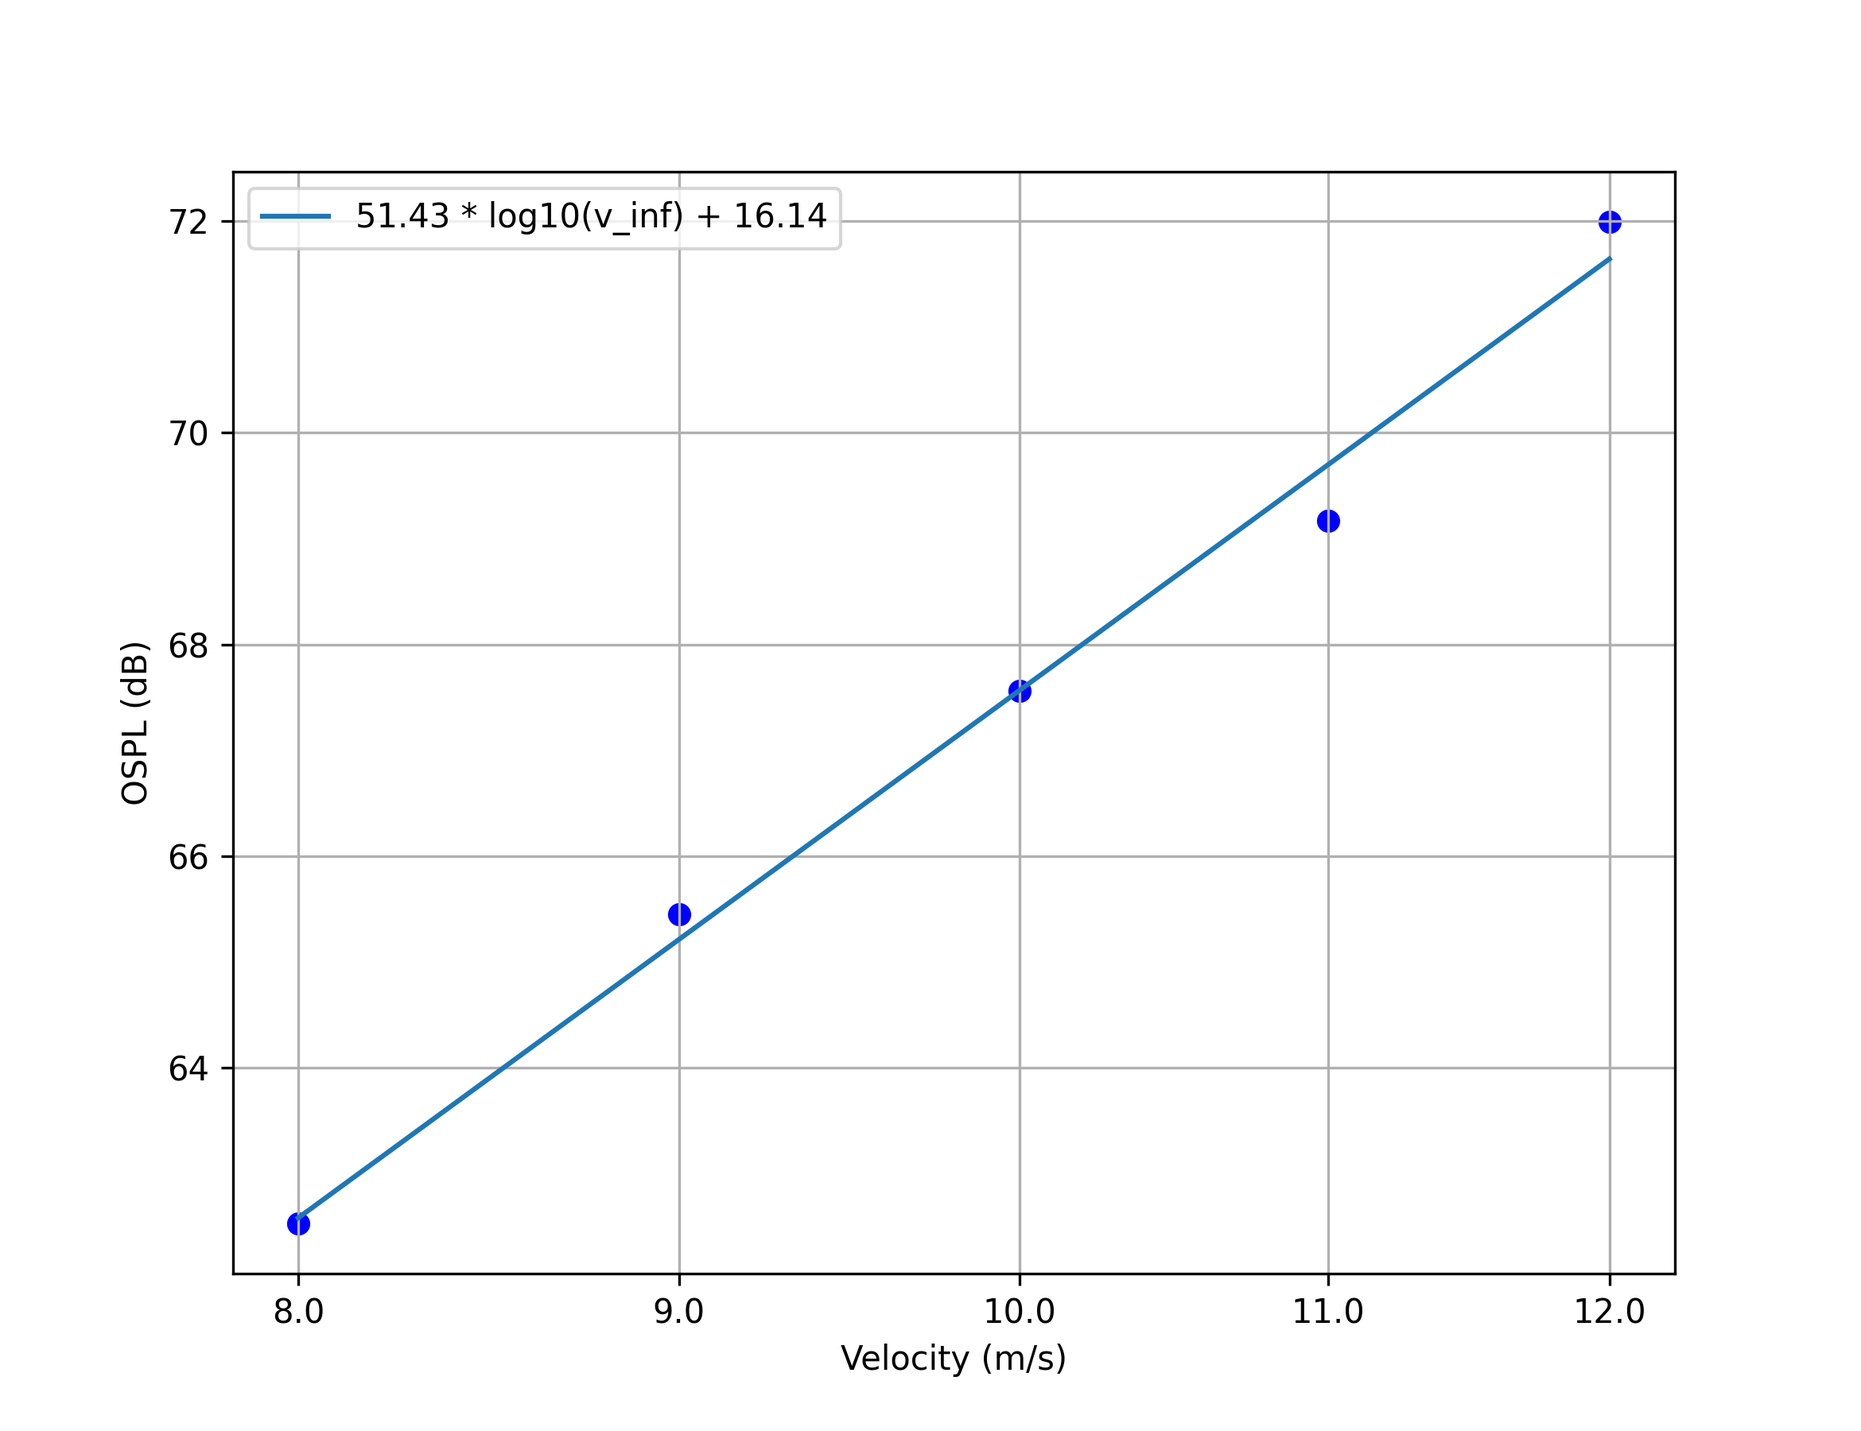
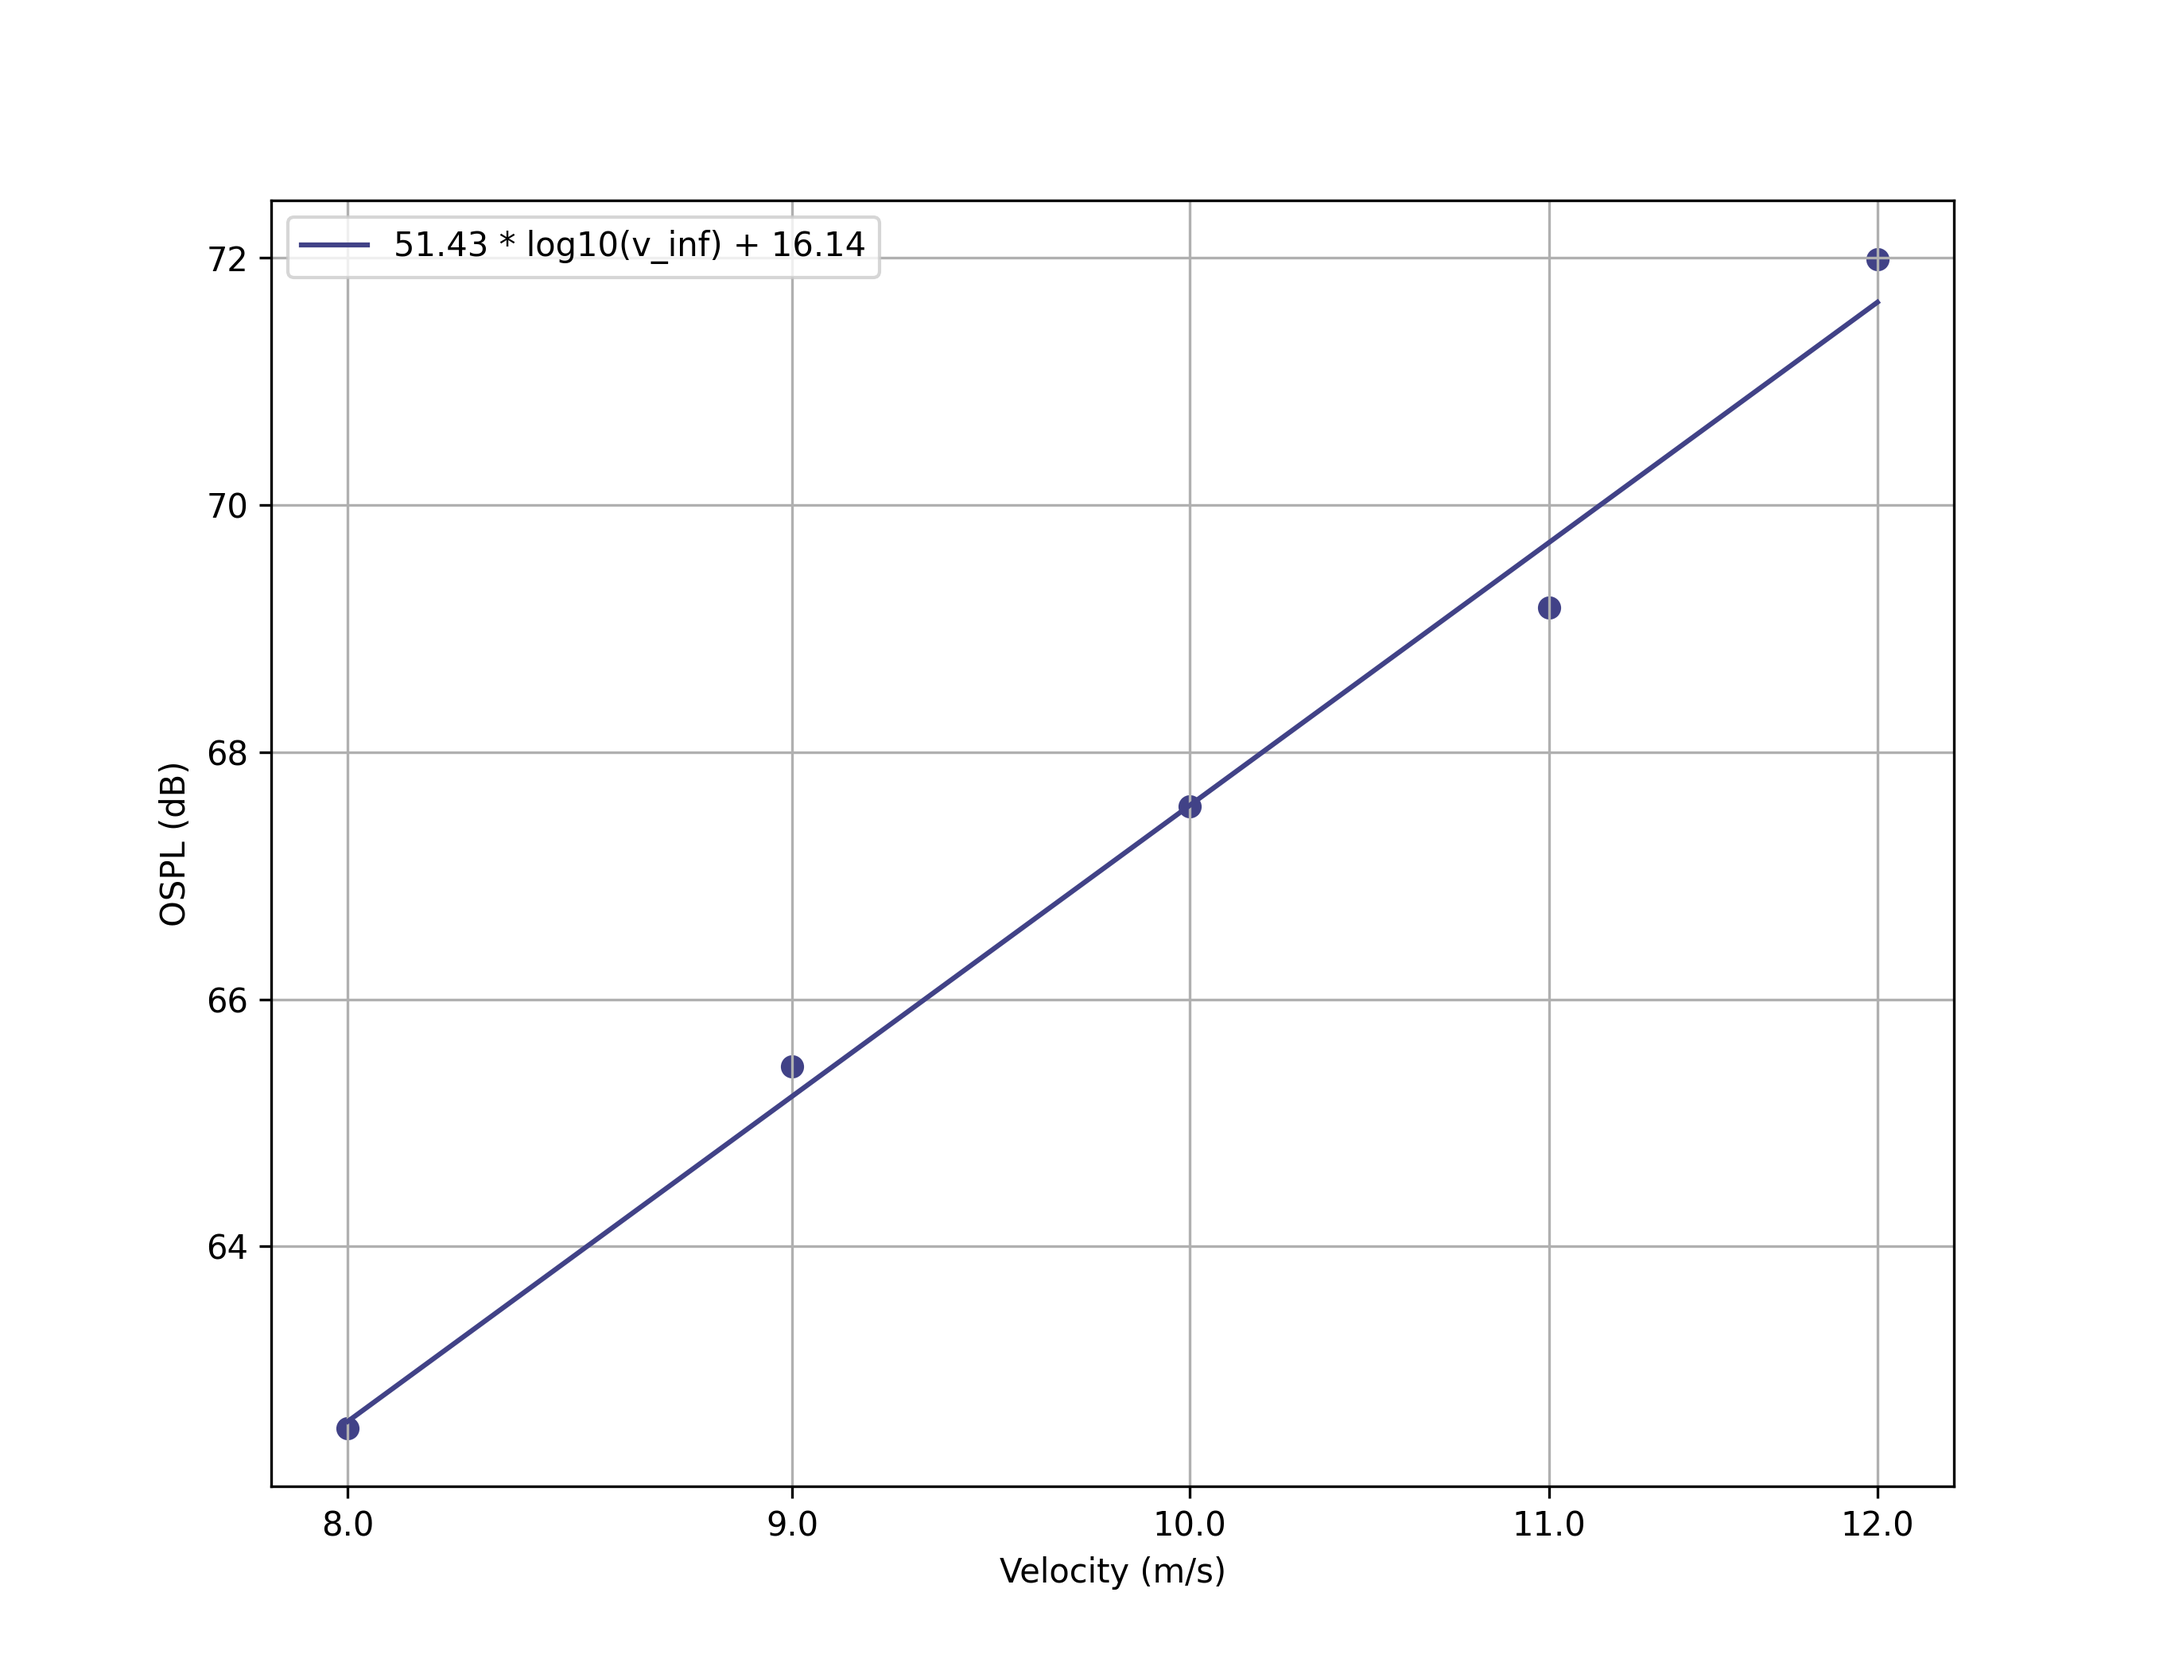
Adjusted data plots

diff --git a/plot_data.py b/plot_data.py
@@ -6,11 +6,11 @@ import pickle as pkl
 
 f_lower = 300  # Hz
 f_upper = 5000 # Hz
-scaling_factor = 1.2
+scaling_factor = 1.4
 size_x = 6.5 * scaling_factor
 size_y = 5 * scaling_factor
 x_ticks = [500, 1000, 1500, 2000, 3000, 4000, 5000]
-color_scheme = 'viridis'
+color_scheme = 'rocket'
 n_smooth = 10
 
 # Load data from pickle file
@@ -26,6 +26,10 @@ with open('saves/processed_data.pkl', 'rb') as f:
     wt_ospl_list = data['wt_ospl_list'] # List of SPL values
     v_inf_list = data['v_inf_list'] # List of velocities
 
+# Convert spl dataframes to spl series
+bg_spl_list = [bg_spl.iloc[:,0] for bg_spl in bg_spl_list]
+wt_spl_list = [wt_spl.iloc[:,0] for wt_spl in wt_spl_list]
+
 # Import data from BPM model (data/BPM/data.csv)
 bpm_list = []
 for v_inf in v_inf_list:
@@ -39,8 +43,8 @@ for v_inf in v_inf_list:
 
 # Prepare colors for plots
 colors = []
-for i in range(len(v_inf_list) + 10):
-    colors.append(plt.cm.get_cmap(color_scheme, len(v_inf_list))(i))
+for i in range(len(v_inf_list) + 1):
+    colors.append(plt.cm.get_cmap(color_scheme, len(v_inf_list) + 1)(i))
 
 # Plot PSD for wt
 fig, ax = plt.subplots(figsize=(size_x, size_y))
@@ -53,6 +57,7 @@ ax.set_ylabel('PSD (dB/Hz)')
 ax.legend()
 ax.grid(True, which='both')
 ax.set_xlim(f_lower, f_upper)
+ax.set_ylim(20, 50)
 plt.xticks(x_ticks, x_ticks)
 plt.savefig('saves/wt_psd.png', dpi=300)
 plt.show()
@@ -60,7 +65,10 @@ plt.show()
 # Plot SNR for wt/bg
 SNR_list = []
 for wt, bg, v_inf in zip(wt_psd_list, bg_psd_list, v_inf_list):
-    SNR_list.append(10 * np.log10(wt / bg))
+    # Convert from db to linear
+    wt_ = 10 ** (wt / 10)
+    bg_ = 10 ** (bg / 10)
+    SNR_list.append(10 * np.log10(wt_ / bg_))
 fig, ax = plt.subplots(figsize=(size_x, size_y))
 for SNR, v_inf, color in zip(SNR_list, v_inf_list, colors):
     SNR = SNR.rolling(n_smooth, center=True).mean()
@@ -85,6 +93,7 @@ ax.set_ylabel('SPL (dB)')
 ax.legend()
 ax.grid(True, which='both')
 ax.set_xlim(f_lower, f_upper)
+ax.set_ylim(30,67)
 plt.xticks(x_ticks, x_ticks)
 plt.savefig('saves/wt_spl.png', dpi=300)
 plt.show()
@@ -98,14 +107,15 @@ ax.set_xlabel('Frequency (Hz)')
 ax.set_ylabel('SPL (dB)')
 ax.legend()
 ax.grid(True, which='both')
-ax.set_xlim(1, 25000)
+ax.set_xlim(1, 24500)
+ax.set_ylim(25, 80)
 plt.savefig('saves/wt_spl=wideband.png', dpi=300)
 plt.show()
 
 # Plot SPL 1/3 for wt
 fig, ax = plt.subplots(figsize=(size_x, size_y))
 for wt, bpm, v_inf, color in zip(wt_spl_1_3_list, bpm_list, v_inf_list, colors):
-    wt.plot(ax=ax, color=color, label=f'{v_inf} m/s')
+    wt.plot(ax=ax, color=color, label=f'wt: {v_inf} m/s')
     ax.plot(bpm, color=color, linestyle='--')
 ax.set_xscale('log')
 ax.set_xlabel('Frequency (Hz)')
@@ -114,6 +124,23 @@ ax.legend()
 ax.grid(True, which='both')
 ax.set_xlim(f_lower, f_upper)
 plt.xticks(x_ticks, x_ticks)
+ax.set_ylim(30, 80)
+plt.savefig('saves/wt_spl.png', dpi=300)
+plt.show()
+
+# Plot SPL 1/3 for bg
+fig, ax = plt.subplots(figsize=(size_x, size_y))
+for bg, bpm, v_inf, color in zip(bg_spl_1_3_list, bpm_list, v_inf_list, colors):
+    bg.plot(ax=ax, color=color, label=f'bg: {v_inf} m/s')
+    ax.plot(bpm, color=color, linestyle='--')
+ax.set_xscale('log')
+ax.set_xlabel('Frequency (Hz)')
+ax.set_ylabel('SPL (dB)')
+ax.legend()
+ax.grid(True, which='both')
+ax.set_xlim(f_lower, f_upper)
+plt.xticks(x_ticks, x_ticks)
+ax.set_ylim(30, 80)
 plt.savefig('saves/wt_spl.png', dpi=300)
 plt.show()
 
@@ -129,6 +156,7 @@ ax.legend()
 ax.grid(True, which='both')
 ax.set_xlim(f_lower, f_upper)
 plt.xticks(x_ticks, x_ticks)
+ax.set_ylim(-2.5, 20)
 plt.savefig('saves/wt_error.png', dpi=300)
 plt.show()
 
@@ -141,8 +169,10 @@ print(f'    R^2: {np.corrcoef(np.log10(v_inf_list), wt_ospl_list)[0, 1] ** 2}')
 fig, ax = plt.subplots(figsize=(size_x, size_y))
 # Plot points
 for wt_ospl, v_inf in zip(wt_ospl_list, v_inf_list):
-    ax.scatter(v_inf, wt_ospl, color='blue')
-ax.plot(v_inf_list, trend_ideal_fn[0] * np.log10(v_inf_list) + trend_ideal_fn[1], label=f'{round(trend_ideal_fn[0], 2)} * log10(v_inf) + {round(trend_ideal_fn[1], 2)}')
+    # Get color from cmap but fixed
+    color = plt.cm.get_cmap('viridis')(50)
+    ax.scatter(v_inf, wt_ospl, color=color)
+ax.plot(v_inf_list, trend_ideal_fn[0] * np.log10(v_inf_list) + trend_ideal_fn[1], color=color, label=f'{round(trend_ideal_fn[0], 2)} * log10(v_inf) + {round(trend_ideal_fn[1], 2)}')
 ax.set_xscale('log')
 ax.set_xlabel('Velocity (m/s)')
 ax.set_ylabel('OSPL (dB)')
